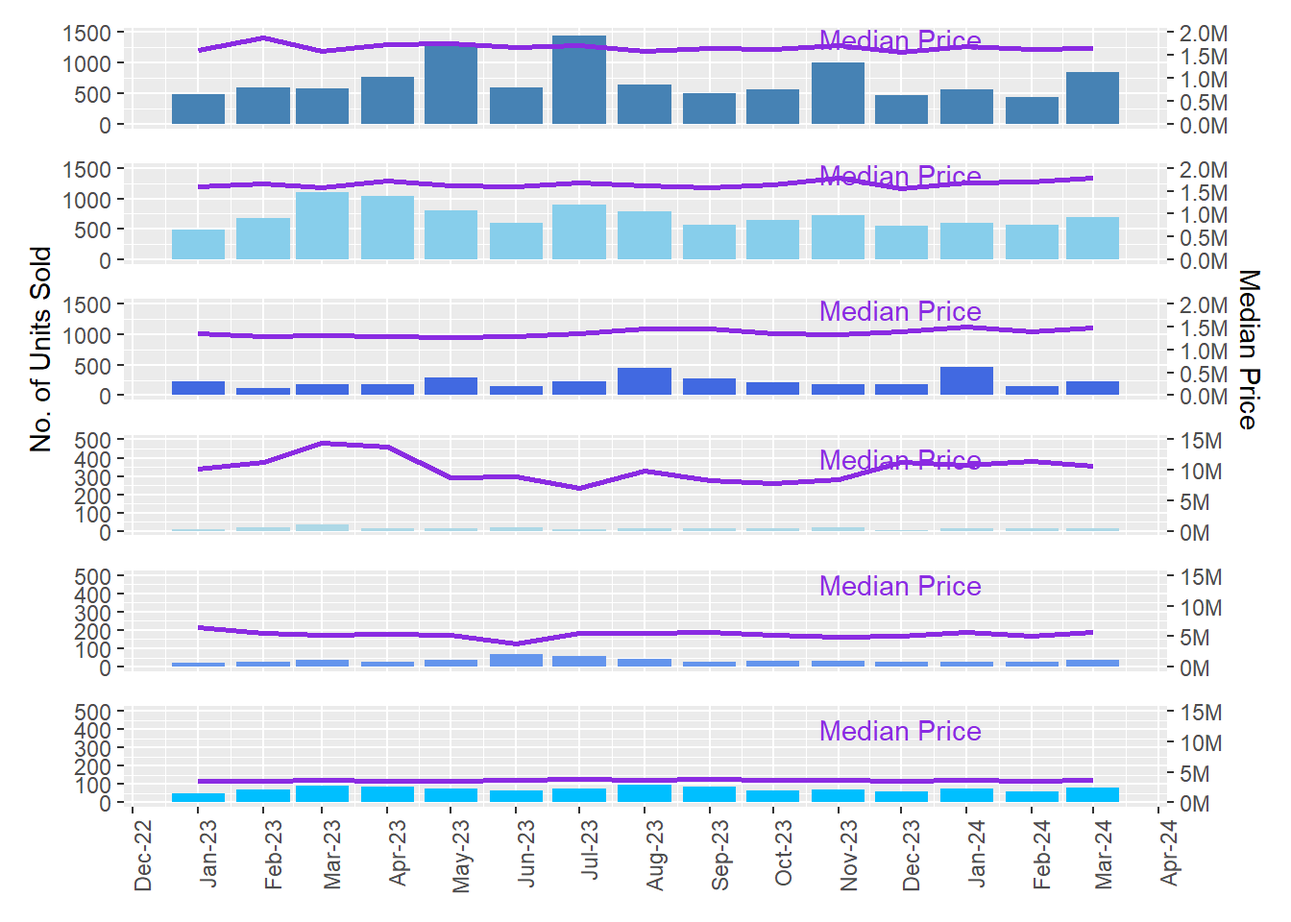
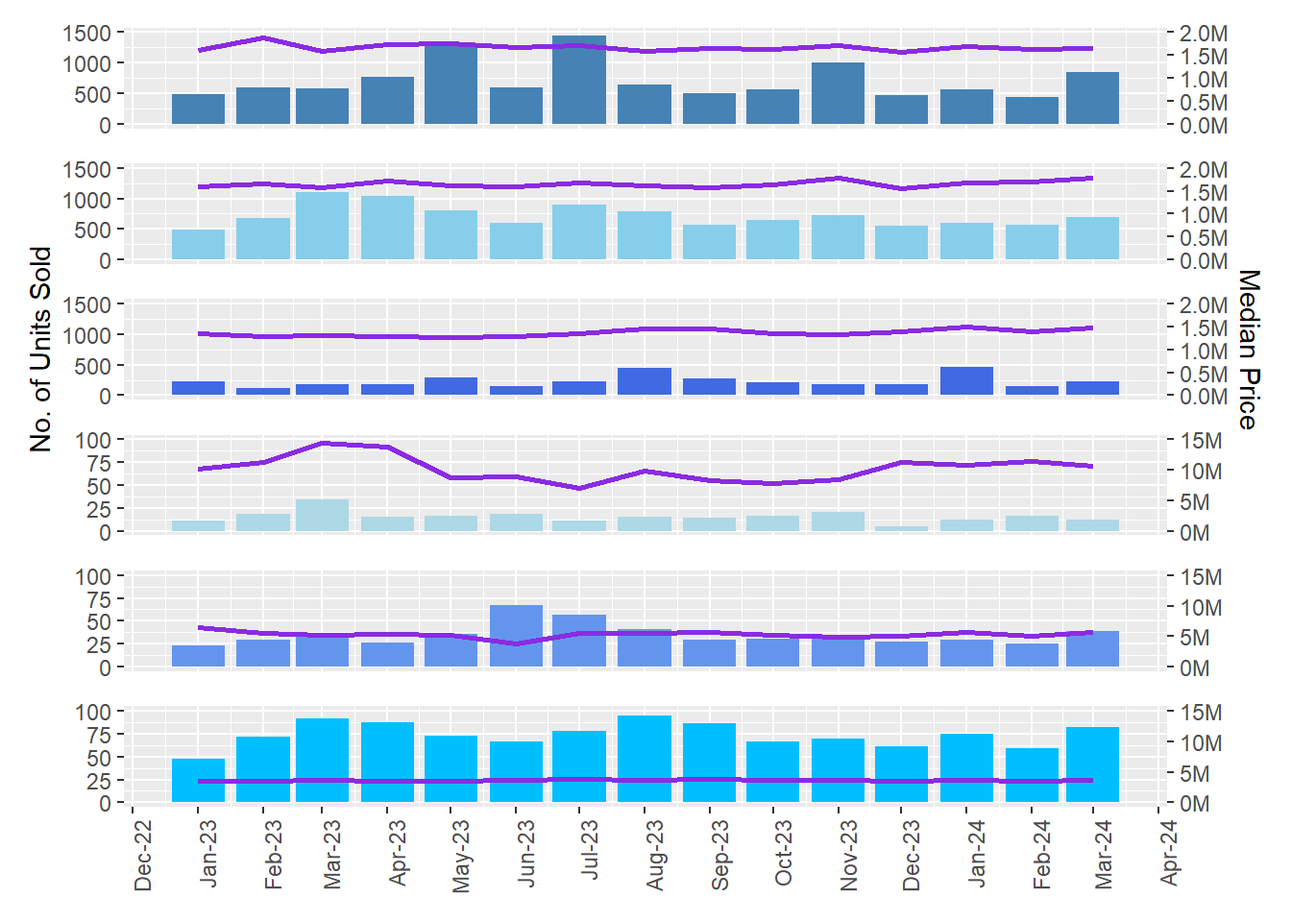
commit updates to plot

diff --git a/_site/Take-home_Ex/Take-home_Ex02/Take-home_Ex02.html b/_site/Take-home_Ex/Take-home_Ex02/Take-home_Ex02.html
@@ -1323,7 +1323,7 @@ pre > code.sourceCode > span > a:first-child::before { text-decoration: underlin
 <li><p>Creates line graph on the median <code>Transaction Price</code> for the property sold that month</p></li>
 </ul>
 <div class="tabset-margin-container"></div><div class="panel-tabset">
-<ul class="nav nav-tabs" role="tablist"><li class="nav-item" role="presentation"><a class="nav-link active" id="tabset-8-1-tab" data-bs-toggle="tab" data-bs-target="#tabset-8-1" role="tab" aria-controls="tabset-8-1" aria-selected="true">Apartment</a></li><li class="nav-item" role="presentation"><a class="nav-link" id="tabset-8-2-tab" data-bs-toggle="tab" data-bs-target="#tabset-8-2" role="tab" aria-controls="tabset-8-2" aria-selected="false">Executive Condominium</a></li><li class="nav-item" role="presentation"><a class="nav-link" id="tabset-8-3-tab" data-bs-toggle="tab" data-bs-target="#tabset-8-3" role="tab" aria-controls="tabset-8-3" aria-selected="false">Condominium</a></li><li class="nav-item" role="presentation"><a class="nav-link" id="tabset-8-4-tab" data-bs-toggle="tab" data-bs-target="#tabset-8-4" role="tab" aria-controls="tabset-8-4" aria-selected="false">Terrace House</a></li><li class="nav-item" role="presentation"><a class="nav-link" id="tabset-8-5-tab" data-bs-toggle="tab" data-bs-target="#tabset-8-5" role="tab" aria-controls="tabset-8-5" aria-selected="false">Semi-Detached House</a></li><li class="nav-item" role="presentation"><a class="nav-link" id="tabset-8-6-tab" data-bs-toggle="tab" data-bs-target="#tabset-8-6" role="tab" aria-controls="tabset-8-6" aria-selected="false">Detached House</a></li></ul>
+<ul class="nav nav-tabs" role="tablist"><li class="nav-item" role="presentation"><a class="nav-link active" id="tabset-8-1-tab" data-bs-toggle="tab" data-bs-target="#tabset-8-1" role="tab" aria-controls="tabset-8-1" aria-selected="true">Apartment</a></li><li class="nav-item" role="presentation"><a class="nav-link" id="tabset-8-2-tab" data-bs-toggle="tab" data-bs-target="#tabset-8-2" role="tab" aria-controls="tabset-8-2" aria-selected="false">Condominium</a></li><li class="nav-item" role="presentation"><a class="nav-link" id="tabset-8-3-tab" data-bs-toggle="tab" data-bs-target="#tabset-8-3" role="tab" aria-controls="tabset-8-3" aria-selected="false">Executive Condominium</a></li><li class="nav-item" role="presentation"><a class="nav-link" id="tabset-8-4-tab" data-bs-toggle="tab" data-bs-target="#tabset-8-4" role="tab" aria-controls="tabset-8-4" aria-selected="false">Terrace House</a></li><li class="nav-item" role="presentation"><a class="nav-link" id="tabset-8-5-tab" data-bs-toggle="tab" data-bs-target="#tabset-8-5" role="tab" aria-controls="tabset-8-5" aria-selected="false">Semi-Detached House</a></li><li class="nav-item" role="presentation"><a class="nav-link" id="tabset-8-6-tab" data-bs-toggle="tab" data-bs-target="#tabset-8-6" role="tab" aria-controls="tabset-8-6" aria-selected="false">Detached House</a></li></ul>
 <div class="tab-content">
 <div id="tabset-8-1" class="tab-pane active" role="tabpanel" aria-labelledby="tabset-8-1-tab">
 <div class="cell">
@@ -1343,11 +1343,10 @@ pre > code.sourceCode > span > a:first-child::before { text-decoration: underlin
 <span id="cb20-14"><a href="#cb20-14" aria-hidden="true" tabindex="-1"></a>  ) <span class="sc">+</span></span>
 <span id="cb20-15"><a href="#cb20-15" aria-hidden="true" tabindex="-1"></a>  <span class="fu">theme</span>(<span class="at">legend.position =</span> <span class="st">"none"</span>,</span>
 <span id="cb20-16"><a href="#cb20-16" aria-hidden="true" tabindex="-1"></a>        <span class="at">axis.text.x =</span> <span class="fu">element_text</span>(<span class="at">angle =</span> <span class="dv">90</span>, <span class="at">hjust =</span> <span class="dv">1</span>)) <span class="sc">+</span>  </span>
-<span id="cb20-17"><a href="#cb20-17" aria-hidden="true" tabindex="-1"></a>  <span class="fu">annotate</span>(<span class="st">"text"</span>, <span class="at">x =</span> <span class="fu">as.Date</span>(<span class="st">"2023-12-01"</span>), <span class="at">y =</span> <span class="dv">1400</span>, <span class="at">label =</span> <span class="st">"Median Price"</span>, <span class="at">colour =</span> <span class="st">"blueviolet"</span>) <span class="sc">+</span></span>
-<span id="cb20-18"><a href="#cb20-18" aria-hidden="true" tabindex="-1"></a>  <span class="fu">scale_x_date</span>(<span class="at">date_breaks =</span> <span class="st">"1 month"</span>, <span class="at">date_labels =</span> <span class="st">"%b-%y"</span>) <span class="sc">+</span></span>
-<span id="cb20-19"><a href="#cb20-19" aria-hidden="true" tabindex="-1"></a>  <span class="fu">labs</span>(<span class="at">x =</span> <span class="cn">NULL</span>)</span>
-<span id="cb20-20"><a href="#cb20-20" aria-hidden="true" tabindex="-1"></a></span>
-<span id="cb20-21"><a href="#cb20-21" aria-hidden="true" tabindex="-1"></a>hist_plot_apt</span></code><button title="Copy to Clipboard" class="code-copy-button"><i class="bi"></i></button></pre></div>
+<span id="cb20-17"><a href="#cb20-17" aria-hidden="true" tabindex="-1"></a>  <span class="fu">scale_x_date</span>(<span class="at">date_breaks =</span> <span class="st">"1 month"</span>, <span class="at">date_labels =</span> <span class="st">"%b-%y"</span>) <span class="sc">+</span></span>
+<span id="cb20-18"><a href="#cb20-18" aria-hidden="true" tabindex="-1"></a>  <span class="fu">labs</span>(<span class="at">x =</span> <span class="cn">NULL</span>)</span>
+<span id="cb20-19"><a href="#cb20-19" aria-hidden="true" tabindex="-1"></a></span>
+<span id="cb20-20"><a href="#cb20-20" aria-hidden="true" tabindex="-1"></a>hist_plot_apt</span></code><button title="Copy to Clipboard" class="code-copy-button"><i class="bi"></i></button></pre></div>
 <div class="cell-output-display">
 <p><img src="Take-home_Ex02_files/figure-html/unnamed-chunk-24-1.png" class="img-fluid" width="672"></p>
 </div>
@@ -1355,14 +1354,14 @@ pre > code.sourceCode > span > a:first-child::before { text-decoration: underlin
 </div>
 <div id="tabset-8-2" class="tab-pane" role="tabpanel" aria-labelledby="tabset-8-2-tab">
 <div class="cell">
-<div class="sourceCode cell-code" id="cb21"><pre class="sourceCode r code-with-copy"><code class="sourceCode r"><span id="cb21-1"><a href="#cb21-1" aria-hidden="true" tabindex="-1"></a><span class="co"># summary(ec_by_month) </span></span>
-<span id="cb21-2"><a href="#cb21-2" aria-hidden="true" tabindex="-1"></a><span class="co"># max unit sold: 459, max avg price = 1504000</span></span>
+<div class="sourceCode cell-code" id="cb21"><pre class="sourceCode r code-with-copy"><code class="sourceCode r"><span id="cb21-1"><a href="#cb21-1" aria-hidden="true" tabindex="-1"></a><span class="co"># summary(c_by_month)</span></span>
+<span id="cb21-2"><a href="#cb21-2" aria-hidden="true" tabindex="-1"></a><span class="co"># max unit sold: 1108, max price: 1780000</span></span>
 <span id="cb21-3"><a href="#cb21-3" aria-hidden="true" tabindex="-1"></a></span>
-<span id="cb21-4"><a href="#cb21-4" aria-hidden="true" tabindex="-1"></a>ec_by_month <span class="ot">&lt;-</span> <span class="fu">subset</span>(sale_by_prop_month,  sale_by_prop_month<span class="sc">$</span><span class="st">`</span><span class="at">Property Type</span><span class="st">`</span> <span class="sc">==</span> <span class="st">"Executive Condominium"</span>)</span>
+<span id="cb21-4"><a href="#cb21-4" aria-hidden="true" tabindex="-1"></a>c_by_month <span class="ot">&lt;-</span> <span class="fu">subset</span>(sale_by_prop_month,  sale_by_prop_month<span class="sc">$</span><span class="st">`</span><span class="at">Property Type</span><span class="st">`</span> <span class="sc">==</span> <span class="st">"Condominium"</span>)</span>
 <span id="cb21-5"><a href="#cb21-5" aria-hidden="true" tabindex="-1"></a></span>
 <span id="cb21-6"><a href="#cb21-6" aria-hidden="true" tabindex="-1"></a><span class="co">#Creating the graph</span></span>
-<span id="cb21-7"><a href="#cb21-7" aria-hidden="true" tabindex="-1"></a>hist_plot_ec <span class="ot">&lt;-</span> <span class="fu">ggplot</span>(<span class="at">data =</span> ec_by_month, <span class="fu">aes</span>(<span class="at">x =</span> year_month, <span class="at">y =</span> total_units, <span class="at">fill =</span> total_units)) <span class="sc">+</span></span>
-<span id="cb21-8"><a href="#cb21-8" aria-hidden="true" tabindex="-1"></a>  <span class="fu">geom_col</span>(<span class="at">fill =</span> <span class="st">"royalblue"</span>) <span class="sc">+</span></span>
+<span id="cb21-7"><a href="#cb21-7" aria-hidden="true" tabindex="-1"></a>hist_plot_c <span class="ot">&lt;-</span> <span class="fu">ggplot</span>(<span class="at">data =</span> c_by_month, <span class="fu">aes</span>(<span class="at">x =</span> year_month, <span class="at">y =</span> total_units, <span class="at">fill =</span> total_units)) <span class="sc">+</span></span>
+<span id="cb21-8"><a href="#cb21-8" aria-hidden="true" tabindex="-1"></a>  <span class="fu">geom_col</span>(<span class="at">fill =</span> <span class="st">"skyblue"</span>) <span class="sc">+</span></span>
 <span id="cb21-9"><a href="#cb21-9" aria-hidden="true" tabindex="-1"></a>  <span class="fu">geom_line</span>(<span class="fu">aes</span>(<span class="at">y =</span> avg_price <span class="sc">*</span> <span class="dv">1500</span> <span class="sc">/</span> <span class="dv">2000000</span>), <span class="at">color =</span> <span class="st">"blueviolet"</span>, <span class="at">linewidth =</span> <span class="dv">1</span>) <span class="sc">+</span></span>
 <span id="cb21-10"><a href="#cb21-10" aria-hidden="true" tabindex="-1"></a>  <span class="fu">scale_y_continuous</span>(</span>
 <span id="cb21-11"><a href="#cb21-11" aria-hidden="true" tabindex="-1"></a>    <span class="at">name =</span> <span class="st">"No. of Units Sold"</span>,</span>
@@ -1371,11 +1370,10 @@ pre > code.sourceCode > span > a:first-child::before { text-decoration: underlin
 <span id="cb21-14"><a href="#cb21-14" aria-hidden="true" tabindex="-1"></a>  ) <span class="sc">+</span></span>
 <span id="cb21-15"><a href="#cb21-15" aria-hidden="true" tabindex="-1"></a>  <span class="fu">theme</span>(<span class="at">legend.position =</span> <span class="st">"none"</span>,</span>
 <span id="cb21-16"><a href="#cb21-16" aria-hidden="true" tabindex="-1"></a>        <span class="at">axis.text.x =</span> <span class="fu">element_text</span>(<span class="at">angle =</span> <span class="dv">90</span>, <span class="at">hjust =</span> <span class="dv">1</span>)) <span class="sc">+</span>  </span>
-<span id="cb21-17"><a href="#cb21-17" aria-hidden="true" tabindex="-1"></a>  <span class="fu">annotate</span>(<span class="st">"text"</span>, <span class="at">x =</span> <span class="fu">as.Date</span>(<span class="st">"2023-12-01"</span>), <span class="at">y =</span> <span class="dv">1400</span>, <span class="at">label =</span> <span class="st">"Median Price"</span>, <span class="at">colour =</span> <span class="st">"blueviolet"</span>) <span class="sc">+</span></span>
-<span id="cb21-18"><a href="#cb21-18" aria-hidden="true" tabindex="-1"></a>  <span class="fu">scale_x_date</span>(<span class="at">date_breaks =</span> <span class="st">"1 month"</span>, <span class="at">date_labels =</span> <span class="st">"%b-%y"</span>) <span class="sc">+</span></span>
-<span id="cb21-19"><a href="#cb21-19" aria-hidden="true" tabindex="-1"></a>  <span class="fu">labs</span>(<span class="at">x =</span> <span class="cn">NULL</span>)</span>
-<span id="cb21-20"><a href="#cb21-20" aria-hidden="true" tabindex="-1"></a></span>
-<span id="cb21-21"><a href="#cb21-21" aria-hidden="true" tabindex="-1"></a>hist_plot_ec</span></code><button title="Copy to Clipboard" class="code-copy-button"><i class="bi"></i></button></pre></div>
+<span id="cb21-17"><a href="#cb21-17" aria-hidden="true" tabindex="-1"></a>  <span class="fu">scale_x_date</span>(<span class="at">date_breaks =</span> <span class="st">"1 month"</span>, <span class="at">date_labels =</span> <span class="st">"%b-%y"</span>) <span class="sc">+</span></span>
+<span id="cb21-18"><a href="#cb21-18" aria-hidden="true" tabindex="-1"></a>  <span class="fu">labs</span>(<span class="at">x =</span> <span class="cn">NULL</span>)</span>
+<span id="cb21-19"><a href="#cb21-19" aria-hidden="true" tabindex="-1"></a></span>
+<span id="cb21-20"><a href="#cb21-20" aria-hidden="true" tabindex="-1"></a>hist_plot_c</span></code><button title="Copy to Clipboard" class="code-copy-button"><i class="bi"></i></button></pre></div>
 <div class="cell-output-display">
 <p><img src="Take-home_Ex02_files/figure-html/unnamed-chunk-25-1.png" class="img-fluid" width="672"></p>
 </div>
@@ -1383,15 +1381,15 @@ pre > code.sourceCode > span > a:first-child::before { text-decoration: underlin
 </div>
 <div id="tabset-8-3" class="tab-pane" role="tabpanel" aria-labelledby="tabset-8-3-tab">
 <div class="cell">
-<div class="sourceCode cell-code" id="cb22"><pre class="sourceCode r code-with-copy"><code class="sourceCode r"><span id="cb22-1"><a href="#cb22-1" aria-hidden="true" tabindex="-1"></a><span class="co"># summary(c_by_month)</span></span>
-<span id="cb22-2"><a href="#cb22-2" aria-hidden="true" tabindex="-1"></a><span class="co"># max unit sold: 1108, max price: 1780000</span></span>
+<div class="sourceCode cell-code" id="cb22"><pre class="sourceCode r code-with-copy"><code class="sourceCode r"><span id="cb22-1"><a href="#cb22-1" aria-hidden="true" tabindex="-1"></a><span class="co"># summary(ec_by_month) </span></span>
+<span id="cb22-2"><a href="#cb22-2" aria-hidden="true" tabindex="-1"></a><span class="co"># max unit sold: 459, max avg price = 1504000</span></span>
 <span id="cb22-3"><a href="#cb22-3" aria-hidden="true" tabindex="-1"></a></span>
-<span id="cb22-4"><a href="#cb22-4" aria-hidden="true" tabindex="-1"></a>c_by_month <span class="ot">&lt;-</span> <span class="fu">subset</span>(sale_by_prop_month,  sale_by_prop_month<span class="sc">$</span><span class="st">`</span><span class="at">Property Type</span><span class="st">`</span> <span class="sc">==</span> <span class="st">"Condominium"</span>)</span>
+<span id="cb22-4"><a href="#cb22-4" aria-hidden="true" tabindex="-1"></a>ec_by_month <span class="ot">&lt;-</span> <span class="fu">subset</span>(sale_by_prop_month,  sale_by_prop_month<span class="sc">$</span><span class="st">`</span><span class="at">Property Type</span><span class="st">`</span> <span class="sc">==</span> <span class="st">"Executive Condominium"</span>)</span>
 <span id="cb22-5"><a href="#cb22-5" aria-hidden="true" tabindex="-1"></a></span>
 <span id="cb22-6"><a href="#cb22-6" aria-hidden="true" tabindex="-1"></a></span>
 <span id="cb22-7"><a href="#cb22-7" aria-hidden="true" tabindex="-1"></a><span class="co">#Creating the graph</span></span>
-<span id="cb22-8"><a href="#cb22-8" aria-hidden="true" tabindex="-1"></a>hist_plot_c <span class="ot">&lt;-</span> <span class="fu">ggplot</span>(<span class="at">data =</span> c_by_month, <span class="fu">aes</span>(<span class="at">x =</span> year_month, <span class="at">y =</span> total_units, <span class="at">fill =</span> total_units)) <span class="sc">+</span></span>
-<span id="cb22-9"><a href="#cb22-9" aria-hidden="true" tabindex="-1"></a>  <span class="fu">geom_col</span>(<span class="at">fill =</span> <span class="st">"skyblue"</span>) <span class="sc">+</span></span>
+<span id="cb22-8"><a href="#cb22-8" aria-hidden="true" tabindex="-1"></a>hist_plot_ec <span class="ot">&lt;-</span> <span class="fu">ggplot</span>(<span class="at">data =</span> ec_by_month, <span class="fu">aes</span>(<span class="at">x =</span> year_month, <span class="at">y =</span> total_units, <span class="at">fill =</span> total_units)) <span class="sc">+</span></span>
+<span id="cb22-9"><a href="#cb22-9" aria-hidden="true" tabindex="-1"></a>  <span class="fu">geom_col</span>(<span class="at">fill =</span> <span class="st">"royalblue"</span>) <span class="sc">+</span></span>
 <span id="cb22-10"><a href="#cb22-10" aria-hidden="true" tabindex="-1"></a>  <span class="fu">geom_line</span>(<span class="fu">aes</span>(<span class="at">y =</span> avg_price <span class="sc">*</span> <span class="dv">1500</span> <span class="sc">/</span> <span class="dv">2000000</span>), <span class="at">color =</span> <span class="st">"blueviolet"</span>, <span class="at">linewidth =</span> <span class="dv">1</span>) <span class="sc">+</span></span>
 <span id="cb22-11"><a href="#cb22-11" aria-hidden="true" tabindex="-1"></a>  <span class="fu">scale_y_continuous</span>(</span>
 <span id="cb22-12"><a href="#cb22-12" aria-hidden="true" tabindex="-1"></a>    <span class="at">name =</span> <span class="st">"No. of Units Sold"</span>,</span>
@@ -1400,11 +1398,10 @@ pre > code.sourceCode > span > a:first-child::before { text-decoration: underlin
 <span id="cb22-15"><a href="#cb22-15" aria-hidden="true" tabindex="-1"></a>  ) <span class="sc">+</span></span>
 <span id="cb22-16"><a href="#cb22-16" aria-hidden="true" tabindex="-1"></a>  <span class="fu">theme</span>(<span class="at">legend.position =</span> <span class="st">"none"</span>,</span>
 <span id="cb22-17"><a href="#cb22-17" aria-hidden="true" tabindex="-1"></a>        <span class="at">axis.text.x =</span> <span class="fu">element_text</span>(<span class="at">angle =</span> <span class="dv">90</span>, <span class="at">hjust =</span> <span class="dv">1</span>)) <span class="sc">+</span>  </span>
-<span id="cb22-18"><a href="#cb22-18" aria-hidden="true" tabindex="-1"></a>  <span class="fu">annotate</span>(<span class="st">"text"</span>, <span class="at">x =</span> <span class="fu">as.Date</span>(<span class="st">"2023-12-01"</span>), <span class="at">y =</span> <span class="dv">1400</span>, <span class="at">label =</span> <span class="st">"Median Price"</span>, <span class="at">colour =</span> <span class="st">"blueviolet"</span>) <span class="sc">+</span></span>
-<span id="cb22-19"><a href="#cb22-19" aria-hidden="true" tabindex="-1"></a>  <span class="fu">scale_x_date</span>(<span class="at">date_breaks =</span> <span class="st">"1 month"</span>, <span class="at">date_labels =</span> <span class="st">"%b-%y"</span>) <span class="sc">+</span></span>
-<span id="cb22-20"><a href="#cb22-20" aria-hidden="true" tabindex="-1"></a>  <span class="fu">labs</span>(<span class="at">x =</span> <span class="cn">NULL</span>)</span>
-<span id="cb22-21"><a href="#cb22-21" aria-hidden="true" tabindex="-1"></a></span>
-<span id="cb22-22"><a href="#cb22-22" aria-hidden="true" tabindex="-1"></a>hist_plot_c</span></code><button title="Copy to Clipboard" class="code-copy-button"><i class="bi"></i></button></pre></div>
+<span id="cb22-18"><a href="#cb22-18" aria-hidden="true" tabindex="-1"></a>  <span class="fu">scale_x_date</span>(<span class="at">date_breaks =</span> <span class="st">"1 month"</span>, <span class="at">date_labels =</span> <span class="st">"%b-%y"</span>) <span class="sc">+</span></span>
+<span id="cb22-19"><a href="#cb22-19" aria-hidden="true" tabindex="-1"></a>  <span class="fu">labs</span>(<span class="at">x =</span> <span class="cn">NULL</span>)</span>
+<span id="cb22-20"><a href="#cb22-20" aria-hidden="true" tabindex="-1"></a></span>
+<span id="cb22-21"><a href="#cb22-21" aria-hidden="true" tabindex="-1"></a>hist_plot_ec</span></code><button title="Copy to Clipboard" class="code-copy-button"><i class="bi"></i></button></pre></div>
 <div class="cell-output-display">
 <p><img src="Take-home_Ex02_files/figure-html/unnamed-chunk-26-1.png" class="img-fluid" width="672"></p>
 </div>
@@ -1422,19 +1419,18 @@ pre > code.sourceCode > span > a:first-child::before { text-decoration: underlin
 <span id="cb23-8"><a href="#cb23-8" aria-hidden="true" tabindex="-1"></a><span class="co">#Creating the graph</span></span>
 <span id="cb23-9"><a href="#cb23-9" aria-hidden="true" tabindex="-1"></a>hist_plot_t <span class="ot">&lt;-</span> <span class="fu">ggplot</span>(<span class="at">data =</span> t_by_month, <span class="fu">aes</span>(<span class="at">x =</span> year_month, <span class="at">y =</span> total_units, <span class="at">fill =</span> total_units)) <span class="sc">+</span></span>
 <span id="cb23-10"><a href="#cb23-10" aria-hidden="true" tabindex="-1"></a>  <span class="fu">geom_col</span>(<span class="at">fill =</span> <span class="st">"deepskyblue"</span>) <span class="sc">+</span></span>
-<span id="cb23-11"><a href="#cb23-11" aria-hidden="true" tabindex="-1"></a>  <span class="fu">geom_line</span>(<span class="fu">aes</span>(<span class="at">y =</span> avg_price <span class="sc">*</span> <span class="dv">500</span> <span class="sc">/</span> <span class="dv">15000000</span>), <span class="at">color =</span> <span class="st">"blueviolet"</span>, <span class="at">linewidth =</span> <span class="dv">1</span>) <span class="sc">+</span></span>
+<span id="cb23-11"><a href="#cb23-11" aria-hidden="true" tabindex="-1"></a>  <span class="fu">geom_line</span>(<span class="fu">aes</span>(<span class="at">y =</span> avg_price <span class="sc">*</span> <span class="dv">100</span> <span class="sc">/</span> <span class="dv">15000000</span>), <span class="at">color =</span> <span class="st">"blueviolet"</span>, <span class="at">linewidth =</span> <span class="dv">1</span>) <span class="sc">+</span></span>
 <span id="cb23-12"><a href="#cb23-12" aria-hidden="true" tabindex="-1"></a>  <span class="fu">scale_y_continuous</span>(</span>
 <span id="cb23-13"><a href="#cb23-13" aria-hidden="true" tabindex="-1"></a>    <span class="at">name =</span> <span class="st">"No. of Units Sold"</span>,</span>
-<span id="cb23-14"><a href="#cb23-14" aria-hidden="true" tabindex="-1"></a>    <span class="at">limits =</span> <span class="fu">c</span>(<span class="dv">0</span>, <span class="dv">500</span>),</span>
-<span id="cb23-15"><a href="#cb23-15" aria-hidden="true" tabindex="-1"></a>    <span class="at">sec.axis =</span> <span class="fu">sec_axis</span>(<span class="sc">~</span>. <span class="sc">*</span> <span class="dv">15000000</span> <span class="sc">/</span> <span class="dv">500</span>, <span class="at">name =</span> <span class="st">"Median Price"</span>, <span class="at">labels =</span> scales<span class="sc">::</span><span class="fu">number_format</span>(<span class="at">scale =</span> <span class="fl">1e-6</span>, <span class="at">suffix =</span> <span class="st">"M"</span>))</span>
+<span id="cb23-14"><a href="#cb23-14" aria-hidden="true" tabindex="-1"></a>    <span class="at">limits =</span> <span class="fu">c</span>(<span class="dv">0</span>, <span class="dv">100</span>),</span>
+<span id="cb23-15"><a href="#cb23-15" aria-hidden="true" tabindex="-1"></a>    <span class="at">sec.axis =</span> <span class="fu">sec_axis</span>(<span class="sc">~</span>. <span class="sc">*</span> <span class="dv">15000000</span> <span class="sc">/</span> <span class="dv">100</span>, <span class="at">name =</span> <span class="st">"Median Price"</span>, <span class="at">labels =</span> scales<span class="sc">::</span><span class="fu">number_format</span>(<span class="at">scale =</span> <span class="fl">1e-6</span>, <span class="at">suffix =</span> <span class="st">"M"</span>))</span>
 <span id="cb23-16"><a href="#cb23-16" aria-hidden="true" tabindex="-1"></a>  ) <span class="sc">+</span></span>
 <span id="cb23-17"><a href="#cb23-17" aria-hidden="true" tabindex="-1"></a>  <span class="fu">theme</span>(<span class="at">legend.position =</span> <span class="st">"none"</span>,</span>
 <span id="cb23-18"><a href="#cb23-18" aria-hidden="true" tabindex="-1"></a>        <span class="at">axis.text.x =</span> <span class="fu">element_text</span>(<span class="at">angle =</span> <span class="dv">90</span>, <span class="at">hjust =</span> <span class="dv">1</span>)) <span class="sc">+</span>  </span>
-<span id="cb23-19"><a href="#cb23-19" aria-hidden="true" tabindex="-1"></a>  <span class="fu">annotate</span>(<span class="st">"text"</span>, <span class="at">x =</span> <span class="fu">as.Date</span>(<span class="st">"2023-12-01"</span>), <span class="at">y =</span> <span class="dv">400</span>, <span class="at">label =</span> <span class="st">"Median Price"</span>, <span class="at">colour =</span> <span class="st">"blueviolet"</span>) <span class="sc">+</span></span>
-<span id="cb23-20"><a href="#cb23-20" aria-hidden="true" tabindex="-1"></a>  <span class="fu">scale_x_date</span>(<span class="at">date_breaks =</span> <span class="st">"1 month"</span>, <span class="at">date_labels =</span> <span class="st">"%b-%y"</span>)  <span class="sc">+</span></span>
-<span id="cb23-21"><a href="#cb23-21" aria-hidden="true" tabindex="-1"></a>  <span class="fu">labs</span>(<span class="at">x =</span> <span class="cn">NULL</span>)</span>
-<span id="cb23-22"><a href="#cb23-22" aria-hidden="true" tabindex="-1"></a></span>
-<span id="cb23-23"><a href="#cb23-23" aria-hidden="true" tabindex="-1"></a>hist_plot_t</span></code><button title="Copy to Clipboard" class="code-copy-button"><i class="bi"></i></button></pre></div>
+<span id="cb23-19"><a href="#cb23-19" aria-hidden="true" tabindex="-1"></a>  <span class="fu">scale_x_date</span>(<span class="at">date_breaks =</span> <span class="st">"1 month"</span>, <span class="at">date_labels =</span> <span class="st">"%b-%y"</span>)  <span class="sc">+</span></span>
+<span id="cb23-20"><a href="#cb23-20" aria-hidden="true" tabindex="-1"></a>  <span class="fu">labs</span>(<span class="at">x =</span> <span class="cn">NULL</span>)</span>
+<span id="cb23-21"><a href="#cb23-21" aria-hidden="true" tabindex="-1"></a></span>
+<span id="cb23-22"><a href="#cb23-22" aria-hidden="true" tabindex="-1"></a>hist_plot_t</span></code><button title="Copy to Clipboard" class="code-copy-button"><i class="bi"></i></button></pre></div>
 <div class="cell-output-display">
 <p><img src="Take-home_Ex02_files/figure-html/unnamed-chunk-27-1.png" class="img-fluid" width="672"></p>
 </div>
@@ -1452,19 +1448,18 @@ pre > code.sourceCode > span > a:first-child::before { text-decoration: underlin
 <span id="cb24-8"><a href="#cb24-8" aria-hidden="true" tabindex="-1"></a><span class="co">#Creating the graph</span></span>
 <span id="cb24-9"><a href="#cb24-9" aria-hidden="true" tabindex="-1"></a>hist_plot_sd <span class="ot">&lt;-</span> <span class="fu">ggplot</span>(<span class="at">data =</span> sd_by_month, <span class="fu">aes</span>(<span class="at">x =</span> year_month, <span class="at">y =</span> total_units, <span class="at">fill =</span> total_units)) <span class="sc">+</span></span>
 <span id="cb24-10"><a href="#cb24-10" aria-hidden="true" tabindex="-1"></a>  <span class="fu">geom_col</span>(<span class="at">fill =</span> <span class="st">"cornflowerblue"</span>) <span class="sc">+</span></span>
-<span id="cb24-11"><a href="#cb24-11" aria-hidden="true" tabindex="-1"></a>  <span class="fu">geom_line</span>(<span class="fu">aes</span>(<span class="at">y =</span> avg_price <span class="sc">*</span> <span class="dv">500</span> <span class="sc">/</span> <span class="dv">15000000</span>), <span class="at">color =</span> <span class="st">"blueviolet"</span>, <span class="at">linewidth =</span> <span class="dv">1</span>) <span class="sc">+</span></span>
+<span id="cb24-11"><a href="#cb24-11" aria-hidden="true" tabindex="-1"></a>  <span class="fu">geom_line</span>(<span class="fu">aes</span>(<span class="at">y =</span> avg_price <span class="sc">*</span> <span class="dv">100</span> <span class="sc">/</span> <span class="dv">15000000</span>), <span class="at">color =</span> <span class="st">"blueviolet"</span>, <span class="at">linewidth =</span> <span class="dv">1</span>) <span class="sc">+</span></span>
 <span id="cb24-12"><a href="#cb24-12" aria-hidden="true" tabindex="-1"></a>  <span class="fu">scale_y_continuous</span>(</span>
 <span id="cb24-13"><a href="#cb24-13" aria-hidden="true" tabindex="-1"></a>    <span class="at">name =</span> <span class="st">"No. of Units Sold"</span>,</span>
-<span id="cb24-14"><a href="#cb24-14" aria-hidden="true" tabindex="-1"></a>    <span class="at">limits =</span> <span class="fu">c</span>(<span class="dv">0</span>, <span class="dv">500</span>),</span>
-<span id="cb24-15"><a href="#cb24-15" aria-hidden="true" tabindex="-1"></a>    <span class="at">sec.axis =</span> <span class="fu">sec_axis</span>(<span class="sc">~</span>. <span class="sc">*</span> <span class="dv">15000000</span> <span class="sc">/</span> <span class="dv">500</span>, <span class="at">name =</span> <span class="st">"Median Price"</span>, <span class="at">labels =</span> scales<span class="sc">::</span><span class="fu">number_format</span>(<span class="at">scale =</span> <span class="fl">1e-6</span>, <span class="at">suffix =</span> <span class="st">"M"</span>))</span>
+<span id="cb24-14"><a href="#cb24-14" aria-hidden="true" tabindex="-1"></a>    <span class="at">limits =</span> <span class="fu">c</span>(<span class="dv">0</span>, <span class="dv">100</span>),</span>
+<span id="cb24-15"><a href="#cb24-15" aria-hidden="true" tabindex="-1"></a>    <span class="at">sec.axis =</span> <span class="fu">sec_axis</span>(<span class="sc">~</span>. <span class="sc">*</span> <span class="dv">15000000</span> <span class="sc">/</span> <span class="dv">100</span>, <span class="at">name =</span> <span class="st">"Median Price"</span>, <span class="at">labels =</span> scales<span class="sc">::</span><span class="fu">number_format</span>(<span class="at">scale =</span> <span class="fl">1e-6</span>, <span class="at">suffix =</span> <span class="st">"M"</span>))</span>
 <span id="cb24-16"><a href="#cb24-16" aria-hidden="true" tabindex="-1"></a>  ) <span class="sc">+</span></span>
 <span id="cb24-17"><a href="#cb24-17" aria-hidden="true" tabindex="-1"></a>  <span class="fu">theme</span>(<span class="at">legend.position =</span> <span class="st">"none"</span>,</span>
 <span id="cb24-18"><a href="#cb24-18" aria-hidden="true" tabindex="-1"></a>        <span class="at">axis.text.x =</span> <span class="fu">element_text</span>(<span class="at">angle =</span> <span class="dv">90</span>, <span class="at">hjust =</span> <span class="dv">1</span>)) <span class="sc">+</span>  </span>
-<span id="cb24-19"><a href="#cb24-19" aria-hidden="true" tabindex="-1"></a>  <span class="fu">annotate</span>(<span class="st">"text"</span>, <span class="at">x =</span> <span class="fu">as.Date</span>(<span class="st">"2023-12-01"</span>), <span class="at">y =</span> <span class="dv">450</span>, <span class="at">label =</span> <span class="st">"Median Price"</span>, <span class="at">colour =</span> <span class="st">"blueviolet"</span>) <span class="sc">+</span></span>
-<span id="cb24-20"><a href="#cb24-20" aria-hidden="true" tabindex="-1"></a>  <span class="fu">scale_x_date</span>(<span class="at">date_breaks =</span> <span class="st">"1 month"</span>, <span class="at">date_labels =</span> <span class="st">"%b-%y"</span>)  <span class="sc">+</span></span>
-<span id="cb24-21"><a href="#cb24-21" aria-hidden="true" tabindex="-1"></a>  <span class="fu">labs</span>(<span class="at">x =</span> <span class="cn">NULL</span>)</span>
-<span id="cb24-22"><a href="#cb24-22" aria-hidden="true" tabindex="-1"></a></span>
-<span id="cb24-23"><a href="#cb24-23" aria-hidden="true" tabindex="-1"></a>hist_plot_sd</span></code><button title="Copy to Clipboard" class="code-copy-button"><i class="bi"></i></button></pre></div>
+<span id="cb24-19"><a href="#cb24-19" aria-hidden="true" tabindex="-1"></a>  <span class="fu">scale_x_date</span>(<span class="at">date_breaks =</span> <span class="st">"1 month"</span>, <span class="at">date_labels =</span> <span class="st">"%b-%y"</span>)  <span class="sc">+</span></span>
+<span id="cb24-20"><a href="#cb24-20" aria-hidden="true" tabindex="-1"></a>  <span class="fu">labs</span>(<span class="at">x =</span> <span class="cn">NULL</span>)</span>
+<span id="cb24-21"><a href="#cb24-21" aria-hidden="true" tabindex="-1"></a></span>
+<span id="cb24-22"><a href="#cb24-22" aria-hidden="true" tabindex="-1"></a>hist_plot_sd</span></code><button title="Copy to Clipboard" class="code-copy-button"><i class="bi"></i></button></pre></div>
 <div class="cell-output-display">
 <p><img src="Take-home_Ex02_files/figure-html/unnamed-chunk-28-1.png" class="img-fluid" width="672"></p>
 </div>
@@ -1480,19 +1475,18 @@ pre > code.sourceCode > span > a:first-child::before { text-decoration: underlin
 <span id="cb25-6"><a href="#cb25-6" aria-hidden="true" tabindex="-1"></a></span>
 <span id="cb25-7"><a href="#cb25-7" aria-hidden="true" tabindex="-1"></a>hist_plot_d <span class="ot">&lt;-</span> <span class="fu">ggplot</span>(<span class="at">data =</span> d_by_month, <span class="fu">aes</span>(<span class="at">x =</span> year_month, <span class="at">y =</span> total_units, <span class="at">fill =</span> total_units)) <span class="sc">+</span></span>
 <span id="cb25-8"><a href="#cb25-8" aria-hidden="true" tabindex="-1"></a>  <span class="fu">geom_col</span>(<span class="at">fill =</span> <span class="st">"lightblue"</span>) <span class="sc">+</span></span>
-<span id="cb25-9"><a href="#cb25-9" aria-hidden="true" tabindex="-1"></a>  <span class="fu">geom_line</span>(<span class="fu">aes</span>(<span class="at">y =</span> avg_price <span class="sc">*</span> <span class="dv">500</span> <span class="sc">/</span> <span class="dv">15000000</span>), <span class="at">color =</span> <span class="st">"blueviolet"</span>, <span class="at">linewidth =</span> <span class="dv">1</span>) <span class="sc">+</span></span>
+<span id="cb25-9"><a href="#cb25-9" aria-hidden="true" tabindex="-1"></a>  <span class="fu">geom_line</span>(<span class="fu">aes</span>(<span class="at">y =</span> avg_price <span class="sc">*</span> <span class="dv">100</span> <span class="sc">/</span> <span class="dv">15000000</span>), <span class="at">color =</span> <span class="st">"blueviolet"</span>, <span class="at">linewidth =</span> <span class="dv">1</span>) <span class="sc">+</span></span>
 <span id="cb25-10"><a href="#cb25-10" aria-hidden="true" tabindex="-1"></a>  <span class="fu">scale_y_continuous</span>(</span>
 <span id="cb25-11"><a href="#cb25-11" aria-hidden="true" tabindex="-1"></a>    <span class="at">name =</span> <span class="st">"No. of Units Sold"</span>,</span>
-<span id="cb25-12"><a href="#cb25-12" aria-hidden="true" tabindex="-1"></a>    <span class="at">limits =</span> <span class="fu">c</span>(<span class="dv">0</span>, <span class="dv">500</span>),</span>
-<span id="cb25-13"><a href="#cb25-13" aria-hidden="true" tabindex="-1"></a>    <span class="at">sec.axis =</span> <span class="fu">sec_axis</span>(<span class="sc">~</span>. <span class="sc">*</span> <span class="dv">15000000</span> <span class="sc">/</span> <span class="dv">500</span>, <span class="at">name =</span> <span class="st">"Median Price"</span>, <span class="at">labels =</span> scales<span class="sc">::</span><span class="fu">number_format</span>(<span class="at">scale =</span> <span class="fl">1e-6</span>, <span class="at">suffix =</span> <span class="st">"M"</span>))</span>
+<span id="cb25-12"><a href="#cb25-12" aria-hidden="true" tabindex="-1"></a>    <span class="at">limits =</span> <span class="fu">c</span>(<span class="dv">0</span>, <span class="dv">100</span>),</span>
+<span id="cb25-13"><a href="#cb25-13" aria-hidden="true" tabindex="-1"></a>    <span class="at">sec.axis =</span> <span class="fu">sec_axis</span>(<span class="sc">~</span>. <span class="sc">*</span> <span class="dv">15000000</span> <span class="sc">/</span> <span class="dv">100</span>, <span class="at">name =</span> <span class="st">"Median Price"</span>, <span class="at">labels =</span> scales<span class="sc">::</span><span class="fu">number_format</span>(<span class="at">scale =</span> <span class="fl">1e-6</span>, <span class="at">suffix =</span> <span class="st">"M"</span>))</span>
 <span id="cb25-14"><a href="#cb25-14" aria-hidden="true" tabindex="-1"></a>  ) <span class="sc">+</span></span>
 <span id="cb25-15"><a href="#cb25-15" aria-hidden="true" tabindex="-1"></a>  <span class="fu">theme</span>(<span class="at">legend.position =</span> <span class="st">"none"</span>,</span>
 <span id="cb25-16"><a href="#cb25-16" aria-hidden="true" tabindex="-1"></a>        <span class="at">axis.text.x =</span> <span class="fu">element_text</span>(<span class="at">angle =</span> <span class="dv">90</span>, <span class="at">hjust =</span> <span class="dv">1</span>)) <span class="sc">+</span>  </span>
-<span id="cb25-17"><a href="#cb25-17" aria-hidden="true" tabindex="-1"></a>  <span class="fu">annotate</span>(<span class="st">"text"</span>, <span class="at">x =</span> <span class="fu">as.Date</span>(<span class="st">"2023-12-01"</span>), <span class="at">y =</span> <span class="dv">400</span>, <span class="at">label =</span> <span class="st">"Median Price"</span>, <span class="at">colour =</span> <span class="st">"blueviolet"</span>) <span class="sc">+</span></span>
-<span id="cb25-18"><a href="#cb25-18" aria-hidden="true" tabindex="-1"></a>  <span class="fu">scale_x_date</span>(<span class="at">date_breaks =</span> <span class="st">"1 month"</span>, <span class="at">date_labels =</span> <span class="st">"%b-%y"</span>)  <span class="sc">+</span></span>
-<span id="cb25-19"><a href="#cb25-19" aria-hidden="true" tabindex="-1"></a>  <span class="fu">labs</span>(<span class="at">x =</span> <span class="cn">NULL</span>)</span>
-<span id="cb25-20"><a href="#cb25-20" aria-hidden="true" tabindex="-1"></a></span>
-<span id="cb25-21"><a href="#cb25-21" aria-hidden="true" tabindex="-1"></a>hist_plot_d</span></code><button title="Copy to Clipboard" class="code-copy-button"><i class="bi"></i></button></pre></div>
+<span id="cb25-17"><a href="#cb25-17" aria-hidden="true" tabindex="-1"></a>  <span class="fu">scale_x_date</span>(<span class="at">date_breaks =</span> <span class="st">"1 month"</span>, <span class="at">date_labels =</span> <span class="st">"%b-%y"</span>)  <span class="sc">+</span></span>
+<span id="cb25-18"><a href="#cb25-18" aria-hidden="true" tabindex="-1"></a>  <span class="fu">labs</span>(<span class="at">x =</span> <span class="cn">NULL</span>)</span>
+<span id="cb25-19"><a href="#cb25-19" aria-hidden="true" tabindex="-1"></a></span>
+<span id="cb25-20"><a href="#cb25-20" aria-hidden="true" tabindex="-1"></a>hist_plot_d</span></code><button title="Copy to Clipboard" class="code-copy-button"><i class="bi"></i></button></pre></div>
 <div class="cell-output-display">
 <p><img src="Take-home_Ex02_files/figure-html/unnamed-chunk-29-1.png" class="img-fluid" width="672"></p>
 </div>
@@ -1510,13 +1504,10 @@ pre > code.sourceCode > span > a:first-child::before { text-decoration: underlin
 <p>Patchwork is used to create the composite plot. Since the color scheme remains consistent throughout the plot and the property types are clearly represented in the raincloud plot just below it, the legend is omitted from the bar chart.</p>
 <div class="cell">
 <div class="sourceCode cell-code" id="cb27"><pre class="sourceCode r code-with-copy"><code class="sourceCode r"><span id="cb27-1"><a href="#cb27-1" aria-hidden="true" tabindex="-1"></a><span class="co"># Combine the plots</span></span>
-<span id="cb27-2"><a href="#cb27-2" aria-hidden="true" tabindex="-1"></a>cplot1 <span class="ot">&lt;-</span> hist_plot <span class="sc">+</span> prop_price_dist</span>
+<span id="cb27-2"><a href="#cb27-2" aria-hidden="true" tabindex="-1"></a>cplot1 <span class="ot">&lt;-</span> hist_plot <span class="sc">+</span> prop_price_dist <span class="sc">+</span> <span class="fu">plot_layout</span>(<span class="at">heights =</span> <span class="fu">c</span>(<span class="dv">1</span>, <span class="dv">4</span>), <span class="at">ncol =</span><span class="dv">1</span>)</span>
 <span id="cb27-3"><a href="#cb27-3" aria-hidden="true" tabindex="-1"></a></span>
-<span id="cb27-4"><a href="#cb27-4" aria-hidden="true" tabindex="-1"></a><span class="co"># Set the height of the combined plot</span></span>
-<span id="cb27-5"><a href="#cb27-5" aria-hidden="true" tabindex="-1"></a>cplot1 <span class="ot">&lt;-</span> cplot1 <span class="sc">+</span> <span class="fu">plot_layout</span>(<span class="at">heights =</span> <span class="fu">c</span>(<span class="dv">1</span>, <span class="dv">4</span>))</span>
-<span id="cb27-6"><a href="#cb27-6" aria-hidden="true" tabindex="-1"></a></span>
-<span id="cb27-7"><a href="#cb27-7" aria-hidden="true" tabindex="-1"></a><span class="co"># Display the combined plot</span></span>
-<span id="cb27-8"><a href="#cb27-8" aria-hidden="true" tabindex="-1"></a>cplot1</span></code><button title="Copy to Clipboard" class="code-copy-button"><i class="bi"></i></button></pre></div>
+<span id="cb27-4"><a href="#cb27-4" aria-hidden="true" tabindex="-1"></a><span class="co"># Display the combined plot</span></span>
+<span id="cb27-5"><a href="#cb27-5" aria-hidden="true" tabindex="-1"></a>cplot1</span></code><button title="Copy to Clipboard" class="code-copy-button"><i class="bi"></i></button></pre></div>
 <div class="cell-output-display">
 <p><img src="Take-home_Ex02_files/figure-html/unnamed-chunk-31-1.png" class="img-fluid" width="672"></p>
 </div>
@@ -1634,9 +1625,17 @@ pre > code.sourceCode > span > a:first-child::before { text-decoration: underlin
 </div>
 <div id="tabset-10-2" class="tab-pane" role="tabpanel" aria-labelledby="tabset-10-2-tab">
 <div class="cell">
-<div class="sourceCode cell-code" id="cb31"><pre class="sourceCode r code-with-copy"><code class="sourceCode r"><span id="cb31-1"><a href="#cb31-1" aria-hidden="true" tabindex="-1"></a>hist_plot_apt <span class="sc">+</span> hist_plot_c <span class="sc">+</span> hist_plot_ec <span class="sc">+</span> hist_plot_d <span class="sc">+</span> hist_plot_sd <span class="sc">+</span> hist_plot_t <span class="sc">+</span>  <span class="fu">plot_layout</span>(<span class="at">ncol =</span> <span class="dv">1</span>,<span class="at">axis_titles =</span> <span class="st">"collect"</span>) </span></code><button title="Copy to Clipboard" class="code-copy-button"><i class="bi"></i></button></pre></div>
+<div class="sourceCode cell-code" id="cb31"><pre class="sourceCode r code-with-copy"><code class="sourceCode r"><span id="cb31-1"><a href="#cb31-1" aria-hidden="true" tabindex="-1"></a>cplot2 <span class="ot">&lt;-</span> hist_plot_apt <span class="sc">+</span> hist_plot_c <span class="sc">+</span> hist_plot_ec <span class="sc">+</span> hist_plot_d <span class="sc">+</span> hist_plot_sd <span class="sc">+</span> hist_plot_t <span class="sc">+</span>  <span class="fu">plot_layout</span>(<span class="at">ncol =</span> <span class="dv">1</span>,<span class="at">axis_titles =</span> <span class="st">"collect"</span>) </span>
+<span id="cb31-2"><a href="#cb31-2" aria-hidden="true" tabindex="-1"></a></span>
+<span id="cb31-3"><a href="#cb31-3" aria-hidden="true" tabindex="-1"></a>cplot2</span></code><button title="Copy to Clipboard" class="code-copy-button"><i class="bi"></i></button></pre></div>
 </div>
 </div>
+</div>
+</div>
+<div class="cell">
+<div class="sourceCode cell-code" id="cb32"><pre class="sourceCode r code-with-copy"><code class="sourceCode r"><span id="cb32-1"><a href="#cb32-1" aria-hidden="true" tabindex="-1"></a>cplot1 <span class="sc">|</span> cplot2</span></code><button title="Copy to Clipboard" class="code-copy-button"><i class="bi"></i></button></pre></div>
+<div class="cell-output-display">
+<p><img src="Take-home_Ex02_files/figure-html/unnamed-chunk-38-1.png" class="img-fluid" width="672"></p>
 </div>
 </div>
 </section>

diff --git a/_site/index.html b/_site/index.html
@@ -543,7 +543,7 @@ Alicia Loh
 </div>
 </a>
 </div>
-<div class="g-col-1" data-index="1" data-listing-date-sort="1714406400000" data-listing-file-modified-sort="1714911389551" data-listing-date-modified-sort="1714911389000" data-listing-reading-time-sort="82">
+<div class="g-col-1" data-index="1" data-listing-date-sort="1714406400000" data-listing-file-modified-sort="1714912391649" data-listing-date-modified-sort="1714912391000" data-listing-reading-time-sort="81">
 <a href="./Take-home_Ex/Take-home_Ex02/Take-home_Ex02.html" class="quarto-grid-link">
 <div class="quarto-grid-item card h-100 card-left">
 <p class="card-img-top"><img src="Take-home_Ex\Take-home_Ex02\images\clipboard-275283112.png" style="height: 150px;"  class="thumbnail-image card-img"/></p>
